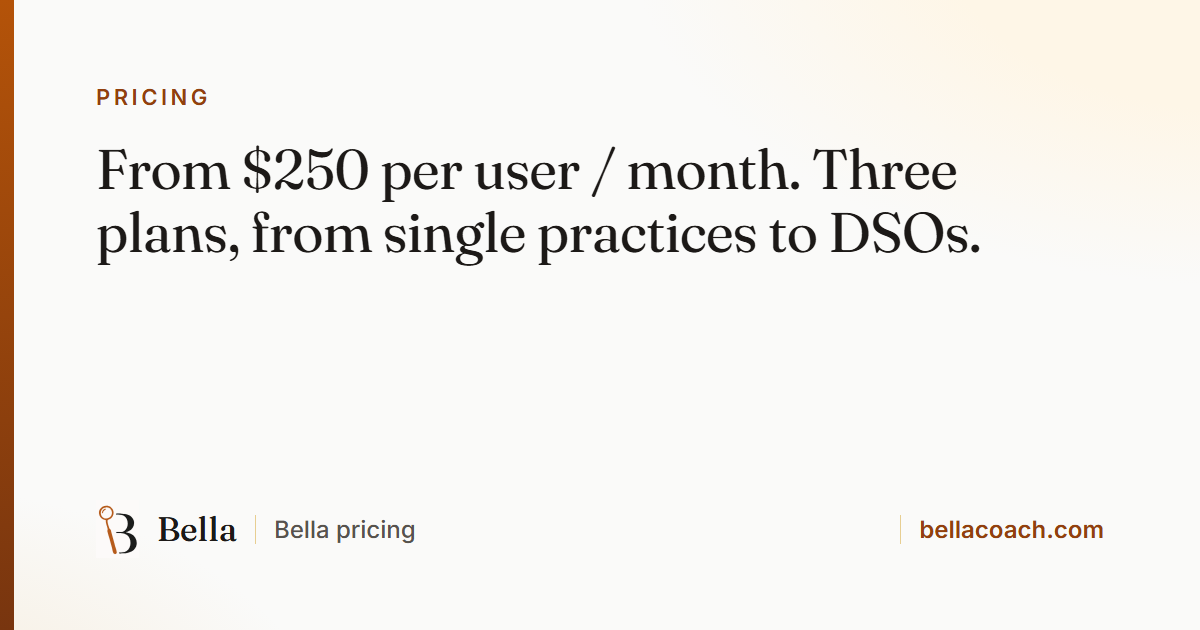
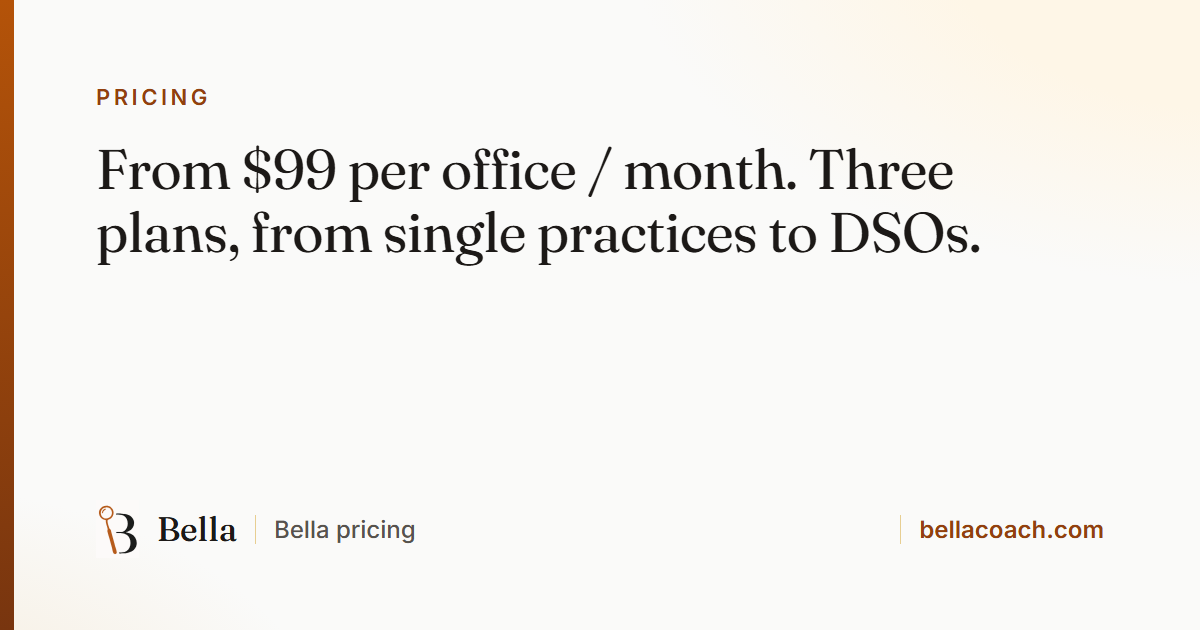
Pricing: per office, $99 / $199 / $249 a month
Nick, 2026-10-18: Self-Serve $99 per office, Customization $199, White-Glove
$249 (was $250 / $500 / $750-$1,500 per user). One office price covers every
login at that practice location; setup fees unchanged.

- Pricing cards, page title, meta and share descriptions, and the Offer
  schema (White-Glove is now one price, not a range).
- FAQ "Who counts as a user?" becomes "What counts as an office?" (page and
  FAQPage schema).
- ROI calculator: per office on both sides of the sum (production per office,
  offices using Bella, cost = price x offices), with the explanation updated.
  Lead tracking reads the renamed slider (roi_offices).
- Product pages' "from" prices: Bella Coach $99; Treatment Desk and Bella
  Voice $199 (Customization and up). Homepage FAQ says per office.
- tracking.js lead values 99 / 199 / 249.
- Share image regenerated. make-og.js now resolves its folder argument:
  with "." Chrome wrote the screenshots elsewhere and the old images stayed.
- Sitemap lastmod for the five changed pages.

Not changed: the Terms' "Authorized User seats" wording, for the attorney.

Changed region(s): [[0.2158, 0.2413, 0.8017, 0.3317]]

diff --git a/pricing.html b/pricing.html
@@ -3,16 +3,16 @@
 <head>
 <meta charset="UTF-8">
 <meta name="viewport" content="width=device-width, initial-scale=1.0">
-<title>Bella Pricing — Treatment Coordinator Training from $250/mo</title>
+<title>Bella Pricing — Treatment Coordinator Training from $99/mo</title>
 <link rel="icon" type="image/svg+xml" href="/favicon.svg">
 <link rel="icon" type="image/png" sizes="32x32" href="/favicon-32x32.png">
 <link rel="icon" type="image/png" sizes="16x16" href="/favicon-16x16.png">
 <link rel="apple-touch-icon" sizes="180x180" href="/apple-touch-icon.png">
-<meta name="description" content="Bella pricing: AI role-play and coaching for dental treatment coordinators from $250 per user/month. Three plans, from single practices to DSOs.">
+<meta name="description" content="Bella pricing: AI role-play and coaching for dental treatment coordinators from $99 per office/month. Three plans, from single practices to DSOs.">
 <link rel="canonical" href="https://bellacoach.com/pricing">
 <meta property="og:site_name" content="Bella">
 <meta property="og:title" content="Pricing — Bella">
-<meta property="og:description" content="Bella pricing: AI role-play and coaching for dental treatment coordinators from $250 per user/month. Three plans, from single practices to DSOs.">
+<meta property="og:description" content="Bella pricing: AI role-play and coaching for dental treatment coordinators from $99 per office/month. Three plans, from single practices to DSOs.">
 <meta property="og:type" content="website">
 <meta property="og:url" content="https://bellacoach.com/pricing">
 <meta property="og:image" content="https://bellacoach.com/images/og/pricing.png">
@@ -21,7 +21,7 @@
 <meta property="og:image:alt" content="Pricing — Bella">
 <meta name="twitter:card" content="summary_large_image">
 <meta name="twitter:title" content="Pricing — Bella">
-<meta name="twitter:description" content="Bella pricing: AI role-play and coaching for dental treatment coordinators from $250 per user/month. Three plans, from single practices to DSOs.">
+<meta name="twitter:description" content="Bella pricing: AI role-play and coaching for dental treatment coordinators from $99 per office/month. Three plans, from single practices to DSOs.">
 <meta name="twitter:image" content="https://bellacoach.com/images/og/pricing.png">
 
 <link rel="preload" href="/fonts/fraunces-latin.woff2" as="font" type="font/woff2" crossorigin>
@@ -685,17 +685,17 @@ a.nav-dd__item:hover{background:#faf9f8}
         {
           "@type": "Offer", "name": "Self-Serve", "url": "https://bellacoach.com/pricing",
           "price": "250", "priceCurrency": "USD",
-          "priceSpecification": { "@type": "UnitPriceSpecification", "price": "250", "priceCurrency": "USD", "unitText": "per user per month", "billingDuration": "P1M" }
+          "priceSpecification": { "@type": "UnitPriceSpecification", "price": "99", "priceCurrency": "USD", "unitText": "per office per month", "billingDuration": "P1M" }
         },
         {
           "@type": "Offer", "name": "Customization", "url": "https://bellacoach.com/pricing",
           "price": "500", "priceCurrency": "USD",
-          "priceSpecification": { "@type": "UnitPriceSpecification", "price": "500", "priceCurrency": "USD", "unitText": "per user per month", "billingDuration": "P1M" }
+          "priceSpecification": { "@type": "UnitPriceSpecification", "price": "199", "priceCurrency": "USD", "unitText": "per office per month", "billingDuration": "P1M" }
         },
         {
           "@type": "Offer", "name": "White-Glove", "url": "https://bellacoach.com/pricing",
           "price": "750", "priceCurrency": "USD",
-          "priceSpecification": { "@type": "UnitPriceSpecification", "minPrice": "750", "maxPrice": "1500", "priceCurrency": "USD", "unitText": "per user per month", "billingDuration": "P1M" }
+          "priceSpecification": { "@type": "UnitPriceSpecification", "price": "249", "priceCurrency": "USD", "unitText": "per office per month", "billingDuration": "P1M" }
         }
       ]
     },
@@ -709,7 +709,7 @@ a.nav-dd__item:hover{background:#faf9f8}
     {
       "@type": "FAQPage",
       "mainEntity": [
-        { "@type": "Question", "name": "Who counts as a user?", "acceptedAnswer": { "@type": "Answer", "text": "Each person with their own Bella login is one user, usually a treatment coordinator, sometimes an office manager or associate who presents treatment. Your order form sets how many users are covered." } },
+        { "@type": "Question", "name": "What counts as an office?", "acceptedAnswer": { "@type": "Answer", "text": "One office is one practice location. Its price covers everyone there who uses Bella, from treatment coordinators to office managers and associates who present treatment, with no charge per login." } },
         { "@type": "Question", "name": "Is it billed monthly or annually? Is there a contract?", "acceptedAnswer": { "@type": "Answer", "text": "The term and billing frequency are set in your order form. Subscriptions are billed in advance and renew for the same length unless either party gives notice at least 30 days before the term ends." } },
         { "@type": "Question", "name": "Is the setup fee refundable?", "acceptedAnswer": { "@type": "Answer", "text": "No. The setup fee is billed once, at the start, and is non-refundable." } },
         { "@type": "Question", "name": "Can the price change later?", "acceptedAnswer": { "@type": "Answer", "text": "Only for a renewal term, and only with at least 30 days' notice before that term begins." } },
@@ -788,7 +788,7 @@ a.nav-dd__item:hover{background:#faf9f8}
 
       <div class="roi-field">
         <label class="roi-label" for="roi-prod">
-          Monthly production per coordinator
+          Monthly production per office
           <output id="roi-prod-out" for="roi-prod">$50,000</output>
         </label>
         <input class="roi-range" type="range" id="roi-prod"
@@ -807,11 +807,11 @@ a.nav-dd__item:hover{background:#faf9f8}
       </div>
 
       <div class="roi-field">
-        <label class="roi-label" for="roi-seats">
-          Coordinators using Bella
-          <output id="roi-seats-out" for="roi-seats">1</output>
+        <label class="roi-label" for="roi-offices">
+          Offices using Bella
+          <output id="roi-offices-out" for="roi-offices">1</output>
         </label>
-        <input class="roi-range" type="range" id="roi-seats"
+        <input class="roi-range" type="range" id="roi-offices"
                min="1" max="12" step="1" value="1">
         <div class="roi-ticks"><span>1</span><span>6</span><span>12</span></div>
         <div class="roi-tier">
@@ -832,12 +832,12 @@ a.nav-dd__item:hover{background:#faf9f8}
 
   <p class="roi-foot">
     This is your arithmetic, not a forecast &#8212; the improvement figure is the one
-    you choose. Production is <strong>per coordinator</strong>, so the return and
-    the cost both scale with seats: a second coordinator brings their own cases,
-    not a second share of the same ones. It assumes the improvement applies to
-    treatment those coordinators present, compares against Bella&#8217;s per-user
-    price at the tier selected, excludes setup, and counts production rather than
-    collections.
+    you choose. Production is <strong>per office</strong>, so the return and the
+    cost both scale with offices: a second office brings its own patients, and
+    every coordinator in an office is covered by its one price. It assumes the
+    improvement applies to treatment that office presents, compares against
+    Bella&#8217;s per-office price at the tier selected, excludes setup, and
+    counts production rather than collections.
   </p>
 </section>
 
@@ -855,7 +855,7 @@ a.nav-dd__item:hover{background:#faf9f8}
       </div>
       <div class="tier-price">
         <div class="setup">Setup <span>$500</span></div>
-        <div class="monthly"><span class="amount">$250</span><span class="unit">per user / month</span></div>
+        <div class="monthly"><span class="amount">$99</span><span class="unit">per office / month</span></div>
       </div>
       <div class="tier-divider"></div>
       <ul class="tier-features">
@@ -878,7 +878,7 @@ a.nav-dd__item:hover{background:#faf9f8}
       </div>
       <div class="tier-price">
         <div class="setup">Setup <span>$1,500</span></div>
-        <div class="monthly"><span class="amount">$500</span><span class="unit">per user / month</span></div>
+        <div class="monthly"><span class="amount">$199</span><span class="unit">per office / month</span></div>
       </div>
       <div class="tier-divider"></div>
       <ul class="tier-features">
@@ -902,7 +902,7 @@ a.nav-dd__item:hover{background:#faf9f8}
       </div>
       <div class="tier-price">
         <div class="setup">Setup <span>$5,000–$15,000</span></div>
-        <div class="monthly"><span class="amount">$750–$1,500</span><span class="unit">per user / month</span></div>
+        <div class="monthly"><span class="amount">$249</span><span class="unit">per office / month</span></div>
       </div>
       <div class="tier-divider"></div>
       <ul class="tier-features">
@@ -926,8 +926,8 @@ a.nav-dd__item:hover{background:#faf9f8}
     <h2>Pricing questions</h2>
     <div class="pfaq__list">
       <details>
-        <summary>Who counts as a user?</summary>
-        <p>Each person with their own Bella login is one user &#8212; usually a treatment coordinator, sometimes an office manager or associate who presents treatment. Your order form sets how many users are covered.</p>
+        <summary>What counts as an office?</summary>
+        <p>One office is one practice location. Its price covers everyone there who uses Bella &#8212; treatment coordinators, office managers, and associates who present treatment &#8212; with no charge per login.</p>
       </details>
       <details>
         <summary>Is it billed monthly or annually? Is there a contract?</summary>
@@ -964,19 +964,19 @@ a.nav-dd__item:hover{background:#faf9f8}
 (function () {
   var prod  = document.getElementById('roi-prod');
   var lift  = document.getElementById('roi-lift');
-  var seats = document.getElementById('roi-seats');
-  if (!prod || !lift || !seats) return;
+  var offices = document.getElementById('roi-offices');
+  if (!prod || !lift || !offices) return;
 
   var prodOut  = document.getElementById('roi-prod-out');
   var liftOut  = document.getElementById('roi-lift-out');
-  var seatsOut = document.getElementById('roi-seats-out');
+  var officesOut = document.getElementById('roi-offices-out');
   var gainEl   = document.getElementById('roi-gain');
   var yearEl   = document.getElementById('roi-year');
   var verdict  = document.getElementById('roi-verdict');
   var btnSS    = document.getElementById('roi-tier-ss');
   var btnCU    = document.getElementById('roi-tier-cu');
 
-  var PRICE = { ss: 250, cu: 500 };
+  var PRICE = { ss: 99, cu: 199 }; /* per office per month (2026-10-18) */
   /* Customization is the featured tier and the one most visitors land on, so
      the comparison defaults there. Defaulting to Self-Serve would quietly halve
      the cost side of the sum and flatter the result. */
@@ -996,26 +996,25 @@ a.nav-dd__item:hover{background:#faf9f8}
   function render() {
     var p = parseFloat(prod.value);
     var l = parseFloat(lift.value);
-    var s = parseInt(seats.value, 10);
+    var s = parseInt(offices.value, 10);
     var cost = PRICE[tier] * s;
-    /* Per coordinator, so it scales with seats. Reading the slider as the
-       OFFICE total and then multiplying by seats would claim a practice can
-       double its revenue by buying a second licence — two coordinators split
-       the same production, they do not each bring another office. Read as
-       per-coordinator, both sides of the sum scale together and the ratio
-       stays honest. */
+    /* Per office, on both sides: pricing is per office (2026-10-18), and an
+       office's production is its own, so a second office brings its own
+       patients. Every coordinator in an office shares its one price, so
+       counting coordinators here would multiply the gain without the cost.
+       Both sides scale together and the ratio stays honest. */
     var gain = p * (l / 100) * s;
 
     prodOut.textContent  = usd0.format(p);
     liftOut.textContent  = (Number.isInteger(l) ? l : l.toFixed(1)) + '%';
-    seatsOut.textContent = String(s);
+    officesOut.textContent = String(s);
 
     gainEl.textContent = '+' + usd0.format(gain);
     yearEl.textContent = usd0.format(gain * 12) + ' over a year';
 
     var net = gain - cost;
     var costLine = usd0.format(cost) + '/month for ' + s +
-      (s === 1 ? ' coordinator' : ' coordinators');
+      (s === 1 ? ' office' : ' offices');
 
     if (net < 0) {
       verdict.innerHTML = 'At this level Bella costs ' + costLine +
@@ -1031,7 +1030,7 @@ a.nav-dd__item:hover{background:#faf9f8}
         '&#215; over</strong> &#8212; ' + usd0.format(net) + ' a month you keep.';
     }
 
-    paint(prod); paint(lift); paint(seats);
+    paint(prod); paint(lift); paint(offices);
   }
 
   function setTier(next) {
@@ -1041,7 +1040,7 @@ a.nav-dd__item:hover{background:#faf9f8}
     render();
   }
 
-  [prod, lift, seats].forEach(function (el) {
+  [prod, lift, offices].forEach(function (el) {
     el.addEventListener('input', render);
   });
   btnSS.addEventListener('click', function () { setTier('ss'); });

diff --git a/tracking.js b/tracking.js
@@ -15,9 +15,9 @@
   var GA_ID = 'G-7FVZ87TK7H';
   var PIXEL_ID = '1379062707534315';
 
-  // Monthly list price per user, sent as the lead's value so reports show
+  // Monthly list price per office, sent as the lead's value so reports show
   // pipeline rather than a bare count. White-Glove is a range; use the floor.
-  var PLAN_VALUE = { 'self-serve': 250, 'customization': 500, 'white-glove': 750 };
+  var PLAN_VALUE = { 'self-serve': 99, 'customization': 199, 'white-glove': 249 };
 
   var path = location.pathname.replace(/\.html$/, '').replace(/\/$/, '') || '/';
   var HUBS = ['/blog/objections', '/blog/treatment-presentation', '/blog/treatment-coordinator-role'];
@@ -173,18 +173,18 @@
 
   document.addEventListener('DOMContentLoaded', function () {
     // ROI calculator (/pricing): one event per visit, after the visitor stops dragging.
-    var roi = ['roi-prod', 'roi-lift', 'roi-seats'].map(function (id) { return document.getElementById(id); });
+    var roi = ['roi-prod', 'roi-lift', 'roi-offices'].map(function (id) { return document.getElementById(id); });
     if (roi[0] && roi[1] && roi[2]) {
       var roiSent = false, roiT;
       roi.forEach(function (el) {
         el.addEventListener('change', function () {
           clearTimeout(roiT);
           roiT = setTimeout(function () {
-            track('roi_calculated', { production: +roi[0].value, lift: +roi[1].value, seats: +roi[2].value });
+            track('roi_calculated', { production: +roi[0].value, lift: +roi[1].value, offices: +roi[2].value });
             if (!roiSent) { fbq('trackCustom', 'ROICalculated'); roiSent = true; }
             var form = document.getElementById('demoForm');
             if (form) {
-              [['roi_production', roi[0].value], ['roi_lift', roi[1].value], ['roi_seats', roi[2].value]].forEach(function (kv) {
+              [['roi_production', roi[0].value], ['roi_lift', roi[1].value], ['roi_offices', roi[2].value]].forEach(function (kv) {
                 var el2 = form.elements[kv[0]];
                 if (!el2) { el2 = document.createElement('input'); el2.type = 'hidden'; el2.name = kv[0]; form.appendChild(el2); }
                 el2.value = kv[1];

diff --git a/scripts/make-og.js b/scripts/make-og.js
@@ -1,7 +1,7 @@
 // Renders 1200x630 share cards with headless Chrome into the repo's images/og/.
 // Usage (repo root): node scripts/make-og.js . — re-run after adding a post, then point its og:image at images/og/blog-<slug>.png
 const fs=require('fs'),path=require('path'),{execFileSync}=require('child_process');
-const repo=process.argv[2];
+const repo=path.resolve(process.argv[2]); // absolute: Chrome writes a relative --screenshot path somewhere else, silently (2026-10-18)
 const chrome='C:/Program Files/Google/Chrome/Application/chrome.exe';
 const out=path.join(repo,'images','og'); fs.mkdirSync(out,{recursive:true});
 const work=path.join(require('os').tmpdir(),'bella-og'); fs.mkdirSync(work,{recursive:true});
@@ -12,7 +12,7 @@ const posts=fs.readdirSync(path.join(repo,'blog')).filter(f=>f.endsWith('.html')
   return {slug:f.replace('.html',''),kicker:(h.match(/"articleSection": "([^"]+)"/)||[])[1],title:(h.match(/"headline": "([^"]+)"/)||[])[1].replace(/\\"/g,'"'),foot:'The treatment coordinator blog'};
 });
 const cards=[
- {slug:'pricing',kicker:'Pricing',title:'From $250 per user / month. Three plans, from single practices to DSOs.',foot:'Bella pricing'},
+ {slug:'pricing',kicker:'Pricing',title:'From $99 per office / month. Three plans, from single practices to DSOs.',foot:'Bella pricing'},
  {slug:'bella-coach',kicker:'Bella Coach',title:'Rehearse the consult against a patient who pushes back.',foot:'AI role-play for dental treatment coordinators'},
  {slug:'treatment-desk',kicker:'Bella Treatment Desk',title:'Build the estimate at the chair, not after the family leaves.',foot:'Chairside estimates and case-acceptance tracking'},
  {slug:'bella-voice',kicker:'Bella Voice',title:'Coach the consult that actually happened.',foot:'Consult recording and coaching, BAA-backed'},

diff --git a/treatment-desk.html b/treatment-desk.html
@@ -52,14 +52,14 @@
       },
       "offers": {
         "@type": "Offer",
-        "price": "500",
+        "price": "199",
         "priceCurrency": "USD",
         "url": "https://bellacoach.com/pricing",
         "priceSpecification": {
           "@type": "UnitPriceSpecification",
-          "price": "500",
+          "price": "199",
           "priceCurrency": "USD",
-          "unitText": "per user per month",
+          "unitText": "per office per month",
           "billingDuration": "P1M"
         }
       }
@@ -241,7 +241,7 @@
         <div class="pfact"><dt>Pricing</dt><dd><b>Your fee schedule.</b> Custom treatments and pricing per office, rather than a generic library you have to correct.</dd></div>
         <div class="pfact"><dt>Reporting</dt><dd><b>By coordinator and office.</b> Role-based, so a manager sees their offices and an admin sees the group.</dd></div>
         <div class="pfact"><dt>Patient data</dt><dd><b>Behind the BAA gate.</b> Estimates hold real patient information (protected health information under HIPAA), so the suite stays off until a Business Associate Agreement is signed.</dd></div>
-        <div class="pfact"><dt>Plan</dt><dd><b>Customization and White-Glove.</b> Included from $500 per user / month. <a href="/pricing">Compare plans</a></dd></div>
+        <div class="pfact"><dt>Plan</dt><dd><b>Customization and White-Glove.</b> Included from $199 per office / month. <a href="/pricing">Compare plans</a></dd></div>
     </dl>
   </div>
 </section>

diff --git a/index.html b/index.html
@@ -1411,7 +1411,7 @@ a.nav-dd__item:hover{background:#faf9f8}
       </details>
       <details class="faq__item">
         <summary class="faq__q">What does it cost?<span class="faq__ic" aria-hidden="true"></span></summary>
-        <div class="faq__a"><p>Pricing is per user (one login, usually a coordinator), across three tiers &#8212; Self-Serve, Customization and White-Glove. The full breakdown, including an ROI calculator you can run against your own production, is on the <a href="/pricing">pricing page</a>.</p></div>
+        <div class="faq__a"><p>Pricing is per office (one practice location, with every login there included), across three tiers &#8212; Self-Serve, Customization and White-Glove. The full breakdown, including an ROI calculator you can run against your own production, is on the <a href="/pricing">pricing page</a>.</p></div>
       </details>
     </div>
 

diff --git a/bella-voice.html b/bella-voice.html
@@ -52,14 +52,14 @@
       },
       "offers": {
         "@type": "Offer",
-        "price": "500",
+        "price": "199",
         "priceCurrency": "USD",
         "url": "https://bellacoach.com/pricing",
         "priceSpecification": {
           "@type": "UnitPriceSpecification",
-          "price": "500",
+          "price": "199",
           "priceCurrency": "USD",
-          "unitText": "per user per month",
+          "unitText": "per office per month",
           "billingDuration": "P1M"
         }
       },

diff --git a/bella-coach.html b/bella-coach.html
@@ -52,14 +52,14 @@
       },
       "offers": {
         "@type": "Offer",
-        "price": "250",
+        "price": "99",
         "priceCurrency": "USD",
         "url": "https://bellacoach.com/pricing",
         "priceSpecification": {
           "@type": "UnitPriceSpecification",
-          "price": "250",
+          "price": "99",
           "priceCurrency": "USD",
-          "unitText": "per user per month",
+          "unitText": "per office per month",
           "billingDuration": "P1M"
         }
       }
